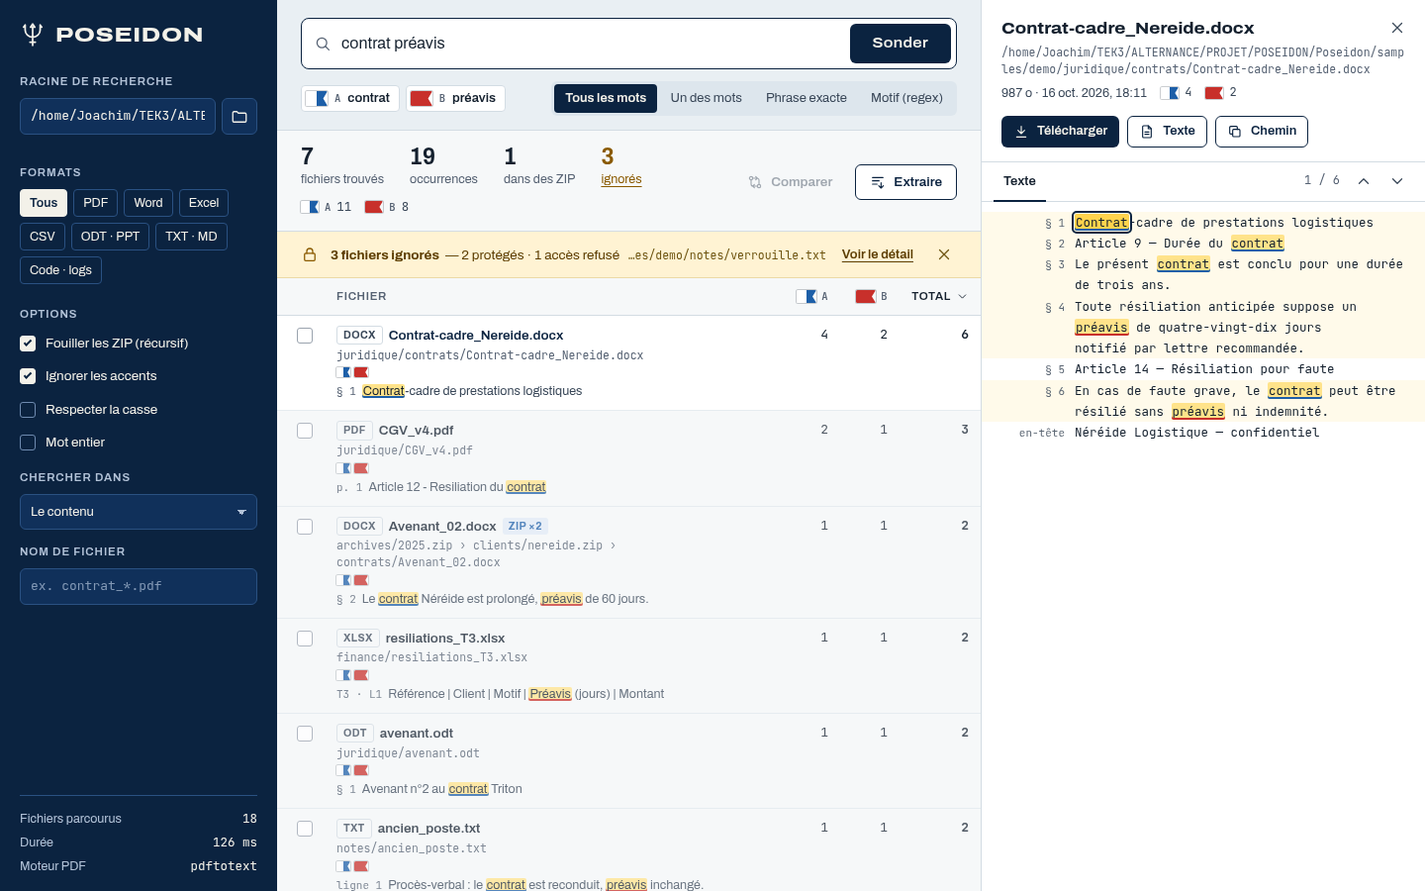
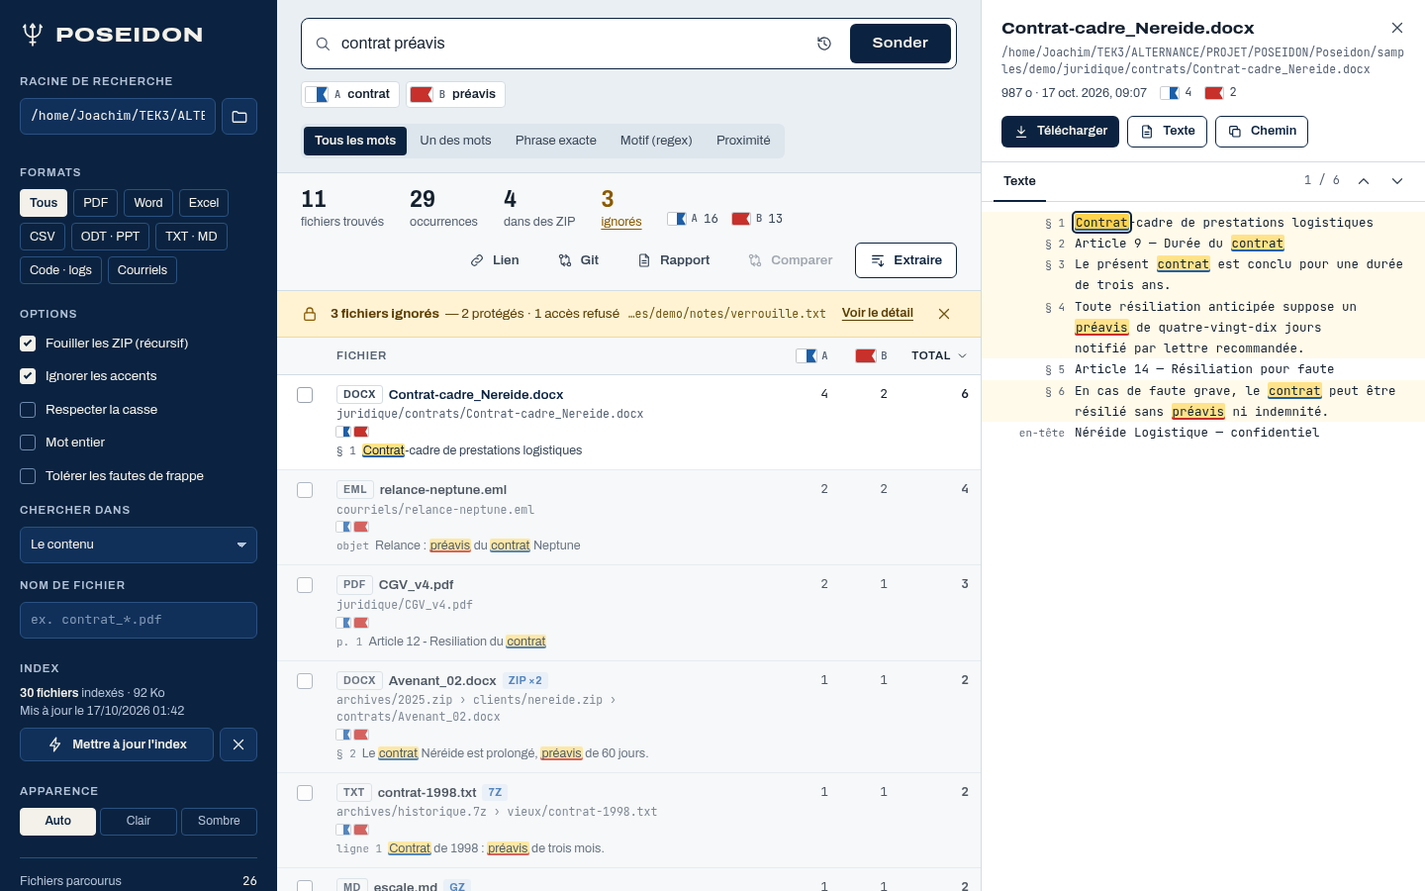
docs: version 1.0.0, historique et Git (phase P9), journal des versions, BUG-029 à BUG-031

diff --git a/docs/web/data/projet.js b/docs/web/data/projet.js
@@ -2,7 +2,7 @@
 window.POSEIDON_PROJET = {
     "meta": {
         "projet": "Poseidon",
-        "version": "0.1.0",
+        "version": "1.0.0",
         "miseAJour": "2026-10-17",
         "porteur": "chim31",
         "resume": "Recherche et extraction dans les fichiers : la combinaison ls -R, grep -R -i, pipes et cat, en PHP, avec PDF, Word, Excel, OpenDocument et ZIP imbriqués."
@@ -625,22 +625,22 @@ window.POSEIDON_PROJET = {
                 {
                     "id": "L8-04",
                     "titre": "Diff entre deux recherches",
-                    "description": "Instantanés : fichiers apparus, disparus, occurrences en hausse.",
-                    "statut": "À faire",
+                    "description": "Instantanés par compte et par recherche : fichiers apparus, disparus, compteurs en hausse ou en baisse (interface, CLI --changes, API).",
+                    "statut": "Terminé",
                     "priorite": "Moyenne",
                     "responsable": "chim31",
-                    "date": "",
-                    "ref": "Phase 9"
+                    "date": "2026-10-17",
+                    "ref": "feat/comparaison-avancee"
                 },
                 {
                     "id": "L8-05",
                     "titre": "Historique Git",
-                    "description": "Dans un dépôt Git : rechercher dans les versions passées, diff entre commits.",
-                    "statut": "À faire",
+                    "description": "Historique d'un fichier, diff d'un commit sur le texte extrait (DOCX, PDF…), recherche des commits où un filtre a changé.",
+                    "statut": "Terminé",
                     "priorite": "Basse",
                     "responsable": "chim31",
-                    "date": "",
-                    "ref": "Phase 9"
+                    "date": "2026-10-17",
+                    "ref": "feat/comparaison-avancee"
                 }
             ]
         },
@@ -672,7 +672,7 @@ window.POSEIDON_PROJET = {
                 {
                     "id": "L9-03",
                     "titre": "Tests automatisés",
-                    "description": "Suite sans dépendance : 111 vérifications (Linux), aussi exécutée sous Windows et dans l'image Docker.",
+                    "description": "Suite sans dépendance : 127 vérifications (Linux), 122 (Windows), exécutée aussi dans l'image Docker.",
                     "statut": "Terminé",
                     "priorite": "Haute",
                     "responsable": "chim31",
@@ -842,11 +842,11 @@ window.POSEIDON_PROJET = {
             "id": "P9",
             "titre": "Comparaison avancée → v1.0",
             "debut": "2026-10-17",
-            "fin": "2027-03-26",
-            "statut": "En cours",
+            "fin": "2026-10-17",
+            "statut": "Terminé",
             "livrables": [
                 "Diff entre deux recherches",
-                "Historique Git",
+                "Historique Git (fichier, diff sur texte extrait, recherche dans les commits)",
                 "Version 1.0"
             ]
         }

diff --git a/bootstrap.php b/bootstrap.php
@@ -8,7 +8,7 @@ declare(strict_types=1);
  */
 
 const POSEIDON_ROOT = __DIR__;
-const POSEIDON_VERSION = '0.1.0';
+const POSEIDON_VERSION = '1.0.0';
 
 spl_autoload_register(static function (string $class): void {
     $prefix = 'Poseidon\\';

diff --git a/context.md b/context.md
@@ -2,7 +2,7 @@
 
 > Source de vérité partagée par tous les intervenants (humains et agents). À lire au début de chaque session, à mettre à jour avant de clôturer toute action.
 
-**Dernière mise à jour :** 2026-10-17 · **Version :** 0.1.0
+**Dernière mise à jour :** 2026-10-17 · **Version :** 1.0.0
 
 ## Sommaire
 
@@ -57,7 +57,9 @@ Formats : TXT, MD, CSV, logs, code, PDF (OCR si scanné), DOCX, DOC, ODT, RTF, X
 | Formats étendus (courriels .eml/.msg, 7z/RAR/tar/gz, OCR) | Terminés — phase P6 |
 | Extraction avancée (proximité, flou, groupes nommés, modèles, historique, partage, rapport) | Terminée — phase P7 |
 | Équipe et déploiement (comptes, rôles, audit, Docker, HTTPS, mode sombre) | Terminés — phase P8 |
-| Phase en cours | P9 — Comparaison avancée → v1.0 |
+| Comparaison avancée (instantanés, historique Git) | Terminée — phase P9 |
+| **Version 1.0.0** | Publiée le 2026-10-17 : toutes les phases de la roadmap sont terminées |
+| Reste ouvert | CI GitHub Actions bloquée par la facturation du compte (à régler par le porteur) ; idées hors périmètre v1 : annuaire LDAP/SSO, partage SMB direct sous Linux |
 
 Avancement détaillé : [cahier des charges web](docs/web/cahier-des-charges.html) · [suivi Markdown](docs/03-suivi/suivi-cahier-des-charges.md) · [roadmap](docs/web/roadmap.html).
 
@@ -75,6 +77,8 @@ Avancement détaillé : [cahier des charges web](docs/web/cahier-des-charges.htm
 | 2026-10-16 | Comparaison façon `git diff` (Myers) | Demande du porteur. Fonctionne sur le texte extrait : PDF contre DOCX possible. |
 | 2026-10-16 | Lanceurs `poseidon.bat` et `bin\poseidon.bat` | Demande du porteur : alternative Windows en double-clic. |
 | 2026-10-16 | Univers visuel « Pavillons de signaux » | Choisi par le porteur parmi les directions proposées ; chaque terme reçoit un pavillon du code international des signaux. Sol froid « embrun » plutôt que crème. Voir [DESIGN.md](DESIGN.md). |
+| 2026-10-17 | Historique Git sur le texte extrait | Un commit sur un DOCX ou un PDF se lit comme un diff de texte ; la recherche dans l'historique extrait les documents que `git log -S` ne voit pas. |
+| 2026-10-17 | Instantanés par compte et par recherche | Comparer deux recherches identiques sans rien stocker de plus que la liste des fichiers et leurs compteurs. |
 | 2026-10-17 | Comptes locaux en fichier JSON (pas de base) | Suffisant pour une équipe ; mots de passe hachés, rôles admin/lecteur, racines par compte ; LDAP/SSO hors périmètre. |
 | 2026-10-17 | Image Docker sur Debian 13 | SQLite 3.46 requis par l'index ; Tesseract français et libarchive inclus ; compte non root ; Caddy pour le HTTPS automatique. |
 | 2026-10-17 | Proximité et recherche floue dans le moteur | Un seul point d'entrée (`Query::find`) pour le moteur, l'aperçu, l'extraction et les noms : surlignage, comptage et export restent cohérents. Distance de Damerau (inversion = 1 faute). |
@@ -127,6 +131,7 @@ Projet individuel : pas de binôme.
 | 2026-10-16 | Cadrage : besoin reformulé, stack PHP natif validée, direction visuelle choisie. |
 | 2026-10-16 | Ajouts demandés en cours de route : signalement des fichiers protégés, lanceurs `.bat`, comparaison façon `git diff`. |
 | 2026-10-16 | Moteur, interface, documentation et suivi livrés sur trois branches ; PR #1, #2, #3 ouvertes pour validation. |
+| 2026-10-17 | Phase P9 : changements entre deux recherches, historique Git (fichier, diff, recherche) ; BUG-028 (accès réseau sans authentification) à BUG-031 ; tests Linux 127/127, Windows 122/122. **Version 1.0.0.** |
 | 2026-10-17 | Phase P8 : comptes et rôles, anti-forçage, journal d'audit, image Docker (tests et vrai OCR vérifiés dans le conteneur), guide HTTPS, mode sombre ; BUG-026 et BUG-027 ; tests Linux 111/111. |
 | 2026-10-17 | Phase P7 : proximité, flou, groupes nommés → colonnes, modèles d'extraction, historique, lien de partage, rapport HTML ; 3 correctifs de sécurité (BUG-023 à 025) et BUG-022 ; tests Linux 98/98. |
 | 2026-10-17 | Phase P6 : courriels .eml/.msg avec pièces jointes, 7z/RAR/tar/gz, OCR ; tests Linux 82/82, Windows 77/77. |

diff --git a/docs/02-technique/backend/historique.md b/docs/02-technique/backend/historique.md
@@ -1,0 +1,54 @@
+# Historique : instantanés de recherche et Git
+
+Deux façons de voir ce qui a changé : entre deux recherches identiques, et dans l'historique Git d'un dossier.
+
+## Instantanés de recherche (`History\SnapshotStore`)
+
+À chaque recherche terminée (interface ou CLI), Poseidon garde un instantané : fichiers trouvés, compteurs par terme, taille et date de chaque fichier.
+
+| Élément | Détail |
+| --- | --- |
+| Clé | compte + racine + filtre + options (formats, archives, cible, nom) : deux recherches identiques d'un même compte se comparent |
+| Stockage | `var/snapshots/<sha1(clé)>/<AAAAMMJJ-HHMMSS-microsecondes>.json` (`snapshots_dir`), 20 derniers gardés |
+| Comparaison | `compare()` : plus récent contre précédent (ou deux instantanés choisis) → `appeared`, `disappeared`, `changed` (compteur avant/après, fichier modifié), `unchanged` |
+| Isolation | Un compte ne voit jamais les instantanés d'un autre |
+
+| Où | Comment |
+| --- | --- |
+| Interface | Bande « Depuis la recherche du … : +N nouveaux · −M disparus · K modifiés » sous la synthèse → « Voir les changements » |
+| CLI | `poseidon search <racine> <filtre> --changes` |
+| API | Événement `{"type":"changes","comparison":…}` en fin de flux `/api/search` ; `GET /api/changes?…[&from=&to=]` |
+
+## Historique Git (`Git\GitHistory`, `Git\HistorySearch`)
+
+Lecture seule, sans shell, délais bornés ; `-c safe.directory=*` pour lire un dépôt appartenant à un autre compte (Docker).
+
+| Fonction | Commande Git | Remarque |
+| --- | --- | --- |
+| `repository($chemin)` | — | Remonte jusqu'au dossier qui contient `.git` |
+| `log($dépôt, $fichier)` | `git log --follow` | 50 derniers commits, renommages suivis |
+| `show($dépôt, $rév, $fichier)` | `git show rév:fichier` | Contenu d'une version (taille bornée) |
+| `parent($dépôt, $rév)` | `git rev-list --parents` | Vide pour un premier commit |
+| `touched($dépôt, $chemin)` | `git log --name-only --diff-filter=AMR` | Commits et fichiers modifiés |
+| `search($dépôt, $chemin, $texte)` | `git log -S` (ou `-G` regex) | Fichiers texte |
+
+Identifiants de commit validés (`[0-9a-f]{7,40}`) : aucune injection d'option possible.
+
+### Diff d'un commit sur un fichier
+
+Poseidon compare le **texte extrait** de la version parente et de la version du commit, comme pour la comparaison de deux fichiers : un commit sur un DOCX, un XLSX ou un PDF montre les lignes de texte ajoutées et retirées, là où `git diff` afficherait « Binary files differ ». Les versions sont des sources **en mémoire** (`Source::inMemory()`), jamais relues sur le disque.
+
+### Recherche dans l'historique (`HistorySearch`)
+
+« Dans quels commits ce filtre a-t-il été ajouté ou retiré ? »
+
+1. Fichiers texte : `git log -S` (rapide), puis comptage avant/après.
+2. Documents (DOCX, XLSX, PDF, ODT, courriels…) : leur contenu est compressé, Git ne peut pas y chercher. Pour chacun des 100 derniers commits qui les modifient, Poseidon extrait le texte des deux versions et compare le nombre d'occurrences.
+
+Résultat : commits (du plus récent au plus ancien) avec, par fichier, `avant → après`.
+
+| Où | Comment |
+| --- | --- |
+| Interface | Aperçu → onglet **Historique** (commits du fichier, clic = diff) ; bouton **Git** de la synthèse (recherche dans l'historique du dossier) |
+| CLI | `poseidon git-log <fichier>`, `poseidon git-search <racine> <filtre> [--mode=regex]` |
+| API | `GET /api/git/log?id=`, `GET /api/git/diff?id=&commit=`, `GET /api/git/search?root=&q=` |

diff --git a/docs/03-suivi/anomalies.md b/docs/03-suivi/anomalies.md
@@ -2,7 +2,7 @@
 
 Toutes les anomalies rencontrées pendant le développement, avec leur cause et leur correctif, ainsi que les limitations connues. À mettre à jour en temps réel.
 
-**Synthèse :** 28 anomalies corrigées (dont 12 de sécurité) · 0 ouverte · 4 limitations connues (reportées).
+**Synthèse :** 31 anomalies corrigées (dont 12 de sécurité) · 0 ouverte · 4 limitations connues (reportées).
 
 ## Anomalies
 
@@ -36,6 +36,9 @@ Toutes les anomalies rencontrées pendant le développement, avec leur cause et 
 | BUG-026 | Une liste de configuration vide ne remplaçait pas la précédente | `Config::with(['allowed_roots' => []])` gardait les racines définies par `POSEIDON_ROOTS` / la liste doit être vidée | Lancer les tests avec `POSEIDON_ROOTS=/data` (conteneur) | Majeure | Corrigé | 2026-10-17 → 2026-10-17 | chim31 | `array_replace_recursive` fusionne les listes indice par indice ; nouvelle fusion : les listes remplacent, les tableaux associatifs fusionnent. | feat/equipe-deploiement |
 | BUG-027 | Avertissement PHP dans les réponses JSON | Sur un serveur, la génération des échantillons (dossier non inscriptible) affichait un avertissement au milieu de `/api/info`, cassant l'interface et le healthcheck / aucune erreur ne doit sortir | Image Docker, compte non root | Majeure | Corrigé | 2026-10-17 → 2026-10-17 | chim31 | `display_errors=0` (erreurs journalisées) ; démo désactivable (`POSEIDON_DEMO=0`), générée seulement si le dossier est inscriptible. | feat/equipe-deploiement |
 | BUG-028 | Instance sans authentification joignable depuis le réseau | Liée à 0.0.0.0 (Docker, `serve --host=0.0.0.0`) sans compte ni mot de passe, un poste du réseau pouvait l'interroger en envoyant `Host: localhost` ; la composition Docker démarrait sans authentification / seule la machine locale doit être servie | `curl -H 'Host: localhost' http://ip-du-serveur:8080/api/search…` | Critique | Corrigé | 2026-10-17 → 2026-10-17 | chim31 | Adresse source locale exigée en plus du nom d'hôte (503 sinon) ; ouverture réseau sans authentification seulement par `POSEIDON_INSECURE_NO_AUTH=1` ; `docker-compose.yml` exige `POSEIDON_PASSWORD`. | feat/comparaison-avancee |
+| BUG-029 | Version Git d'un document relue depuis le disque | Le diff d'un commit sur un DOCX/PDF comparait la version du disque, pas celle du commit / chaque version doit être lue en mémoire | Onglet Historique d'un DOCX modifié | Majeure | Corrigé | 2026-10-17 → 2026-10-17 | chim31 | Les extracteurs choisissaient « octets ou chemin » selon `inArchive()` ; nouvelle notion `Source::inMemory()` (entrée d'archive ou contenu fourni). | feat/comparaison-avancee |
+| BUG-030 | Changements inversés entre deux recherches rapprochées | Deux recherches dans la même seconde : nouveaux et disparus échangés / l'ordre doit être chronologique | `search … --changes` deux fois de suite | Mineure | Corrigé | 2026-10-17 → 2026-10-17 | chim31 | Instantanés horodatés à la microseconde. | feat/comparaison-avancee |
+| BUG-031 | « nullnull » dans la vue des changements | Groupes vides rendus comme texte « null » / rien ne doit s'afficher | Changements sans fichier disparu ni modifié | Cosmétique | Corrigé | 2026-10-17 → 2026-10-17 | chim31 | Groupes vides filtrés avant `replaceChildren`. | feat/comparaison-avancee |
 
 ## Limitations connues
 

diff --git a/README.md b/README.md
@@ -6,14 +6,21 @@
 
 ## En bref
 
-- **Où** : dossier local, `C:\…`, partage réseau `\\serveur\partage`, ZIP dans des ZIP.
-- **Quoi** : un mot, une phrase en bloc, plusieurs mots (tous / au moins un), ou une expression régulière ; casse, accents, mot entier.
-- **Résultat** : nombre de fichiers, chemins absolu et relatif, occurrences par terme, lignes-preuves ; aperçu, téléchargement, comparaison de deux fichiers façon `git diff`.
-- **Extraction** : occurrences, lignes, colonnes de tableurs (par lettre ou en-tête) ou liste de fichiers, vers CSV, XLSX, JSON, TXT ou Markdown.
-- **Robuste** : les fichiers protégés, illisibles ou piégés sont ignorés et signalés, jamais bloquants.
-- **Autonome** : PHP 8.2+ uniquement, aucun CDN, aucune dépendance Composer.
+| | |
+| --- | --- |
+| **Où** | Dossier local, `C:\…`, partage `\\serveur\partage` ; à l'intérieur des ZIP, 7z, RAR, tar, gz, et des pièces jointes de courriels, imbriqués à volonté |
+| **Quoi** | PDF (OCR si scanné), Word, Excel, OpenDocument, PowerPoint, RTF, CSV, texte, code, courriels `.eml` / `.msg`, images (OCR) |
+| **Comment** | Un mot, une phrase, plusieurs mots (tous / un des), à proximité les uns des autres, avec fautes de frappe, ou une regex |
+| **Résultat** | Fichiers, chemins absolu et relatif, occurrences par terme, lignes-preuves surlignées ; aperçu, téléchargement |
+| **Données** | Extraction d'occurrences, de lignes ou de colonnes vers CSV, XLSX, JSON, TXT, MD ; groupes nommés → colonnes ; modèles rejouables ; rapport HTML/PDF |
+| **Comparer** | Deux fichiers (`git diff`), deux recherches (ce qui a changé), l'historique Git d'un document (même DOCX ou PDF) |
+| **Vitesse** | Index plein texte : 10 000 fichiers relus en 5 s, puis 0,5 s indexés |
+| **Équipe** | Comptes et rôles, racines par compte, journal d'audit, Docker + HTTPS |
+| **Robuste** | Fichiers protégés, illisibles ou piégés signalés, jamais bloquants ; aucun CDN ; PHP seul |
 
 ## Démarrer
+
+**Version 1.0.0.** Captures : [bureau](docs/assets/interface-bureau.png) · [mobile](docs/assets/interface-mobile.png) · [comparaison](docs/assets/interface-comparaison.png) · [tableur](docs/assets/interface-tableur.png) · [thème sombre](docs/assets/interface-sombre.png).
 
 **Windows** : double-clic sur `poseidon.bat` (le navigateur s'ouvre sur <http://127.0.0.1:8080>).
 
@@ -29,6 +36,8 @@
 php bin/poseidon search ~/Documents "contrat préavis" --ext=pdf,docx
 php bin/poseidon extract ./finance "résilié" --extract=columns --columns=Client,Montant --out=resilies.xlsx
 php bin/poseidon diff contrat_v1.docx contrat_v2.pdf
+php bin/poseidon search ./juridique "contrat résiliation" --mode=near --changes
+php bin/poseidon git-search ./depot "préavis"
 ```
 
 Sous Windows : `bin\poseidon.bat search C:\Docs "contrat préavis"`.
@@ -43,6 +52,8 @@ Guide complet : [docs/01-general/demarrage.md](docs/01-general/demarrage.md).
 | [Documentation](docs/README.md) | Architecture, API, interface, modules |
 | [Cahier des charges](docs/web/cahier-des-charges.html) | Exigences et avancement (page web) |
 | [Roadmap](docs/web/roadmap.html) | Phases jusqu'à la v1.0 (page web) |
+| [Déploiement](docs/01-general/deploiement.md) | Comptes, Docker + HTTPS, serveurs |
+| [Versions](docs/03-suivi/versions.md) | Journal des versions |
 
 ## Tests
 

diff --git a/docs/01-general/api.md b/docs/01-general/api.md
@@ -59,7 +59,7 @@ Informations publiques (en-tête `X-Poseidon: 1` requis). Réponse :
 { "name": "Poseidon", "version": "0.1.0", "php": "8.4.24", "os": "Linux", "pdfEngine": "pdftotext",
   "formats": ["txt", "md", "pdf", "docx", "xlsx", "zip"], "allowedRoots": [], "authRequired": false,
   "authenticated": true, "home": "/home/moi", "demo": "/opt/poseidon/samples/demo (null si POSEIDON_DEMO=0)",
-  "indexAvailable": true, "ocr": false, "archives7z": true, "authMode": "none", "user": { "login": "local", "role": "admin" } }
+  "indexAvailable": true, "ocr": false, "archives7z": true, "git": true, "authMode": "none", "user": { "login": "local", "role": "admin" } }
 ```
 
 ### `GET /api/browse?path=`
@@ -83,6 +83,16 @@ Flux NDJSON (une ligne JSON par événement), `Content-Type: application/x-ndjso
 ```
 
 `spans` : `[position, longueur, index du terme]` en caractères. `index` vaut `null` sans index. Fermer la connexion arrête le parcours.
+
+Après `done`, un dernier événement compare avec la recherche identique précédente du même compte : `{"type":"changes","comparison":{"from":{…},"to":{…},"appeared":[{"path":"…","total":3}],"disappeared":[…],"changed":[{"path":"…","before":1,"after":4,"modified":true}],"unchanged":12}}` (`comparison` vaut `null` la première fois).
+
+### `GET /api/changes?…&from=&to=`
+
+Instantanés de la recherche (mêmes paramètres que `/api/search`) et comparaison : `{"snapshots":[{"id":"20261017-091200-123456","at":"…","matched":17,"occurrences":24}], "comparison":{…}}`.
+
+### `GET /api/git/log?id=` · `GET /api/git/diff?id=&commit=` · `GET /api/git/search?root=&q=&mode=`
+
+Historique Git : commits d'un fichier (`{"available":true,"repository":"…","path":"…","commits":[{"hash","short","author","date","subject"}]}`), diff d'un commit sur le texte extrait (même format que `/api/diff`, plus `commit`, `parent`, `path`), commits où le filtre a changé (`{"repository":"…","commits":[{…,"files":[{"path":"…","before":0,"after":1}]}]}`).
 
 ### `GET /api/preview?id=&q=&mode=…`
 

diff --git a/docs/02-technique/interface.md b/docs/02-technique/interface.md
@@ -77,7 +77,12 @@ Saisie + 5 modes (segmenté) : tous les mots, un des mots, phrase exacte, motif 
 - Tri par nom, par compteur de chaque terme ou par total.
 - Clic ou `Entrée` sur une ligne → aperçu ; flèches haut/bas pour naviguer.
 - Cases à cocher : deux fichiers → **Comparer**.
+- **Git** cherche le filtre dans l'historique du dépôt (commits où il a été ajouté ou retiré, documents compris) ;
 - **Extraire** ouvre le volet d'extraction ; **Rapport** ouvre le rapport HTML dans un onglet ; **Lien** copie une adresse `…/#root=…&q=…` qui rejoue la recherche à l'ouverture.
+
+### Changements depuis la recherche précédente
+
+Quand la même recherche a déjà été faite, une bande bleue sous la synthèse indique `+N nouveaux · −M disparus · K modifiés` ; « Voir les changements » remplace le tableau par la liste détaillée (compteurs avant → après).
 
 ### Fichiers ignorés
 
@@ -85,7 +90,7 @@ Bande d'alerte en ligne sous la synthèse (jamais par-dessus le contenu) : nombr
 
 ### Volet d'aperçu
 
-Nom, chemin absolu complet (archives comprises), taille, date, compteurs par pavillon ; actions Télécharger, Ouvrir (PDF, texte, images), Texte (.txt extrait), Chemin (copie). Onglet **Texte** : lignes avec emplacement (ligne, page, §, feuille · ligne), navigation d'occurrence. Onglet **Tableau** (tableurs/CSV) : grille par feuille ; un clic sur une lettre de colonne l'ajoute au mapping d'extraction.
+Nom, chemin absolu complet (archives comprises), taille, date, compteurs par pavillon ; onglet **Historique** si le fichier est suivi par Git (commits ; un clic affiche le diff du commit sur le texte extrait) ; actions Télécharger, Ouvrir (PDF, texte, images), Texte (.txt extrait), Chemin (copie). Onglet **Texte** : lignes avec emplacement (ligne, page, §, feuille · ligne), navigation d'occurrence. Onglet **Tableau** (tableurs/CSV) : grille par feuille ; un clic sur une lettre de colonne l'ajoute au mapping d'extraction.
 
 ### Volet d'extraction
 

diff --git a/docs/03-suivi/versions.md b/docs/03-suivi/versions.md
@@ -1,0 +1,34 @@
+# Journal des versions
+
+## 1.0.0 — 2026-10-17
+
+Toutes les phases de la roadmap (P0 à P9) sont livrées.
+
+**Recherche**
+- Racines locales, Windows, UNC (`\\serveur\partage`), `file://`, `smb://` ; parcours récursif en flux.
+- Modes : tous les mots, un des mots, phrase exacte, regex, **proximité** (sur plusieurs lignes) ; casse, accents, mot entier, **fautes de frappe**.
+- Occurrences par terme, lignes-preuves, recherche dans les noms.
+- **Index plein texte** SQLite FTS5 : seuls les fichiers candidats sont relus.
+
+**Formats**
+- TXT, MD, CSV, logs, code, PDF (OCR si scanné), DOCX, DOC, ODT, RTF, XLSX, XLS, ODS, PPTX, ODP, images (OCR).
+- Conteneurs imbriqués : ZIP, 7z, RAR, tar, gz, courriels `.eml` / `.msg` et leurs pièces jointes.
+- Fichiers protégés, illisibles ou piégés : signalés, jamais bloquants.
+
+**Extraction et comparaison**
+- Occurrences, lignes, colonnes (lettres ou en-têtes), liste de fichiers → CSV, XLSX, JSON, TXT, MD ; groupes nommés → colonnes ; **modèles** rejouables.
+- Rapport HTML imprimable en PDF.
+- Diff façon `git diff` entre deux fichiers ; **changements entre deux recherches** ; **historique Git** sur le texte extrait.
+
+**Interface et exploitation**
+- Interface « Pavillons de signaux », résultats en flux, aperçu, tableur, historique et recherches enregistrées, lien de partage, thème sombre.
+- Comptes et rôles, racines par compte, anti-forçage, journal d'audit.
+- CLI complète, lanceurs `.bat` / `.sh`, image Docker + Caddy (HTTPS).
+- 127 tests (Linux), 122 (Windows), exécutés aussi dans l'image Docker.
+
+**Connu**
+- Intégration continue GitHub prête mais non exécutée : compte GitHub bloqué pour facturation.
+
+## 0.1.0 — 2026-10-16
+
+Première version : moteur multi-formats, ZIP imbriqués, extraction, diff, interface web, lanceurs, documentation.

diff --git a/docs/README.md b/docs/README.md
@@ -27,6 +27,7 @@ Index de toute la documentation. Commence par le [guide de démarrage](01-genera
 | [backend/moteur-de-recherche.md](02-technique/backend/moteur-de-recherche.md) | `Query`, `Matcher`, `SearchEngine`, `Diff` |
 | [backend/extraction-de-donnees.md](02-technique/backend/extraction-de-donnees.md) | `DataExtractor`, `Writer`, `XlsxWriter` |
 | [backend/index-plein-texte.md](02-technique/backend/index-plein-texte.md) | `Index`, `Indexer` (SQLite FTS5) |
+| [backend/historique.md](02-technique/backend/historique.md) | Instantanés de recherche, historique Git |
 | [backend/http-et-cli.md](02-technique/backend/http-et-cli.md) | `Kernel` HTTP et `Application` CLI |
 
 ## 03 — Suivi
@@ -35,6 +36,7 @@ Index de toute la documentation. Commence par le [guide de démarrage](01-genera
 | --- | --- |
 | [suivi-cahier-des-charges.md](03-suivi/suivi-cahier-des-charges.md) | Avancement par exigence (généré) |
 | [anomalies.md](03-suivi/anomalies.md) | Registre des anomalies et limitations |
+| [versions.md](03-suivi/versions.md) | Journal des versions |
 | [Cahier des charges web](web/cahier-des-charges.html) | Version web, avec tableau de bord et filtres |
 | [Roadmap web](web/roadmap.html) | Frise et phases jusqu'à la v1.0 |
 
